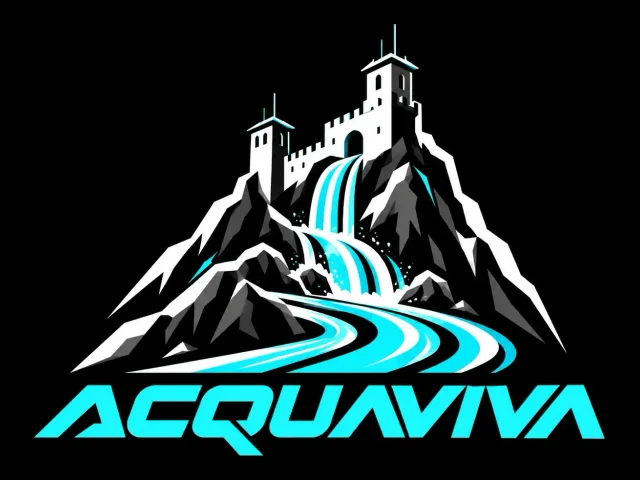
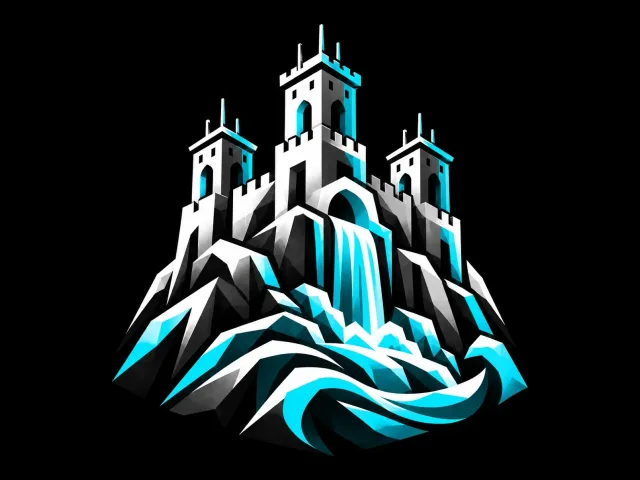
Loghi nuovi dei nove castelli e colori allineati (migrazione 0026, da applicare a mano)
Claude-Session: https://claude.ai/code/session_01NPons2JwHMxEPqWQkYyk7h

diff --git a/app/castelli/[slug]/page.tsx b/app/castelli/[slug]/page.tsx
@@ -32,8 +32,8 @@ export default async function Castello({ params }: Props) {
         <Link href="/castelli" className="indietro"><Icona nome="freccia" size={18} /> Castelli</Link>
         {haLogo(c.slug) ? (
           <>
-            <LogoCastello c={c} className="mx-auto w-full max-w-[400px]" />
-            <h1 className="sr-only">{c.nome}</h1>
+            <LogoCastello c={c} className="mx-auto w-full max-w-[360px]" />
+            <h1 className="titolo text-center">{c.nome}</h1>
           </>
         ) : (
           <>

diff --git a/CLAUDE.md b/CLAUDE.md
@@ -62,7 +62,7 @@ App del territorio di San Marino: eventi, mappa, castelli e servizi utili in un'
 | `app/opengraph-image.tsx`, `app/twitter-image.tsx` | Anteprima dei link a 739 (1200×630): marchio Completo bianco su zinc-950 e «Tutto San Marino, dalla vetta». Le anteprime per eventi, contenuti e speciali arrivano col passo 1.7 |
 | `components/Quota.tsx` | Altimetro: scala 0–739 m con le tacche dei livelli, usata nella pagina SMR ID |
 | `components/Castello.tsx` | Scelta del castello salvata in `localStorage` (`739-castello`) e griglia di scelta per i nuovi |
-| `components/LogoCastello.tsx`, `public/castelli/` | Loghi dei 9 castelli forniti da Alex il 14/10/2026 (non sono gli stemmi ufficiali, che per la legge 190/2011 sono riservati alle Giunte di Castello). Originali in `docs/castelli/<slug>.webp`, file per l'app generati con `node scripts/castelli.mjs`: sempre il logo intero con il nome, **mai ritagliato** (scelta di Alex), solo il nero in eccesso tolto; sempre su fondo nero. `LogoCastello` (640×480) in testa alla pagina del castello, `EmblemaCastello` (quadrato) in classifica, podio, scelta del castello; senza logo resta il punto colore |
+| `components/LogoCastello.tsx`, `public/castelli/` | Loghi dei 9 castelli forniti da Alex il 14/10/2026 (seconda versione, senza scritta, dello stesso giorno) (non sono gli stemmi ufficiali, che per la legge 190/2011 sono riservati alle Giunte di Castello). Originali in `docs/castelli/<slug>.webp`, file per l'app generati con `node scripts/castelli.mjs`: sempre il logo intero, **mai ritagliato** (scelta di Alex), solo il nero in eccesso tolto; sempre su fondo nero. `LogoCastello` (640×480) in testa alla pagina del castello, con il nome sotto, `EmblemaCastello` (quadrato) in classifica, podio, scelta del castello; senza logo resta il punto colore |
 | `lib/data.ts` | Letture di eventi, luoghi e classifica, funzioni per date e orari (fuso `Europe/San_Marino`) |
 | `lib/servizi.ts` | Letture dei servizi (turni, linee e partenze, raccolta, parcheggi) |
 | `lib/orario.ts` | Prossime partenze e giorno della settimana a San Marino; senza dipendenze, gira anche nel browser |
@@ -115,7 +115,7 @@ Tabelle: `castelli` (i 9 castelli con colore), `profili`, `luoghi`, `eventi`, `c
 - Un trigger aggiunge i metri dell'evento a ogni check-in.
 - `classifica_castelli_totali()` restituisce solo i totali per castello (funzione pubblica voluta, nessun dato personale).
 - Esiste anche una vecchia vista `classifica_castelli`, resa sicura e non più usata: si può eliminare.
-- Colori dei castelli presi dai loghi (migrazione 0024, applicata a mano da Alex il 14/10/2026): Città #0255FA, Borgo Maggiore #FDC844, Serravalle #FC0A12, Domagnano #CA071D, Fiorentino #B637FB, Acquaviva #1BF7FD, Faetano #229557, Chiesanuova #02F378, Montegiardino #27F9B9.
+- Colori dei castelli presi dai loghi: migrazione 0024 (prima versione dei loghi, applicata a mano da Alex il 14/10/2026) e 0026 (loghi nuovi, **da applicare a mano**): Città #014BFB, Borgo Maggiore #FBB908, Serravalle #FA0716, Domagnano #FC6705, Fiorentino #8A02FA, Acquaviva #04E4FC, Faetano #02B866, Chiesanuova #03C749, Montegiardino #06F9C8.
 - Dati di prova: 2 eventi con titolo "Esempio · …" e 3 luoghi con "Posizione da verificare". Vanno sostituiti con dati veri.
 
 ## Identità visiva
